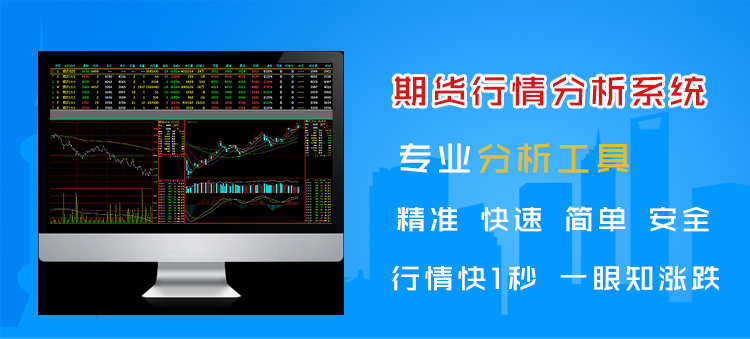
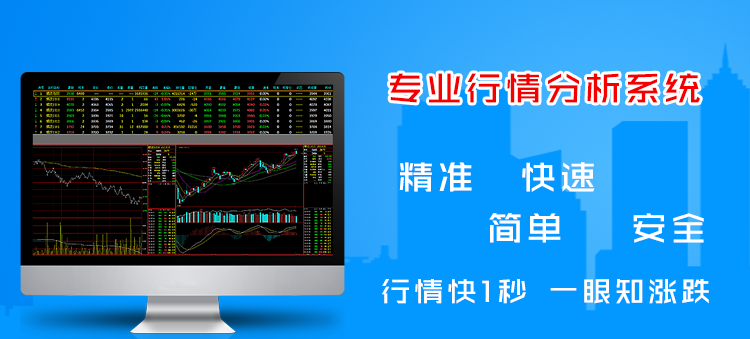
..

diff --git a/public/static/template/new/19.html b/public/static/template/new/19.html
@@ -3,7 +3,7 @@
 <head>
     <meta charset="UTF-8">
     <meta name="viewport" content="width=device-width, initial-scale=1, maximum-scale=1,user-scalable=no">
-    <title>期货行情走势分析系统</title>
+    <title>行情走势分析系统</title>
     <link href="__PLUGINS__/bootstrap/css/bootstrap.min.css" rel="stylesheet">
     <link rel="stylesheet" href="__TEMPLATE__/new/css/19.css">
     <!-- jQuery (necessary for Bootstrap's JavaScript plugins) -->
